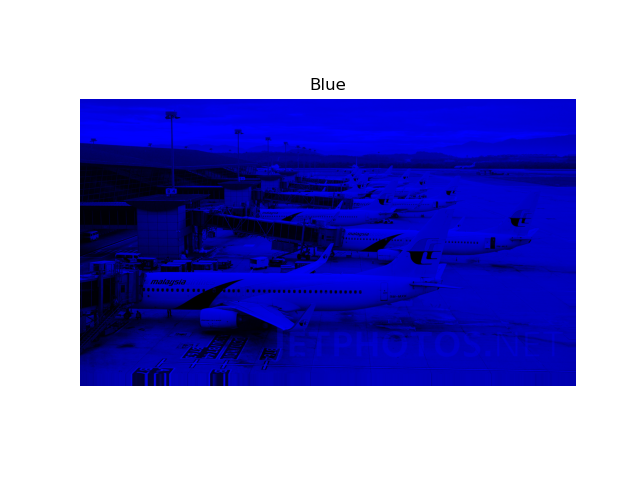
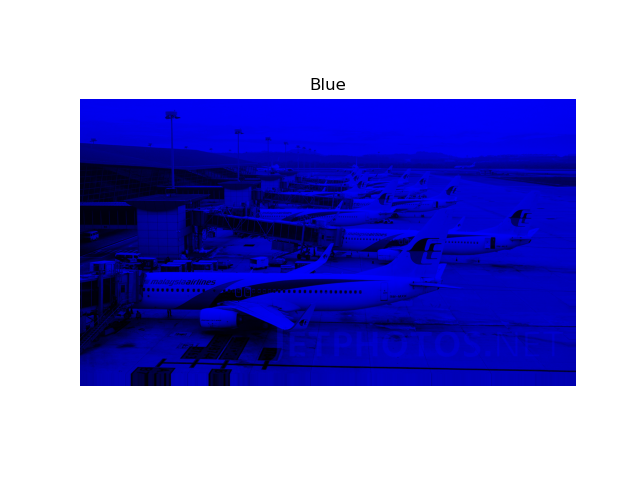
Errata do grupo da Claudia

diff --git a/PythonMult/projeto1.py b/PythonMult/projeto1.py
@@ -8,8 +8,8 @@ import numpy as np #decoder
 
 def splitRGB(img): #separar matrizes
     R = img[:, :, 0]
-    G = img[:, :, 0]
-    B = img[:, :, 0]
+    G = img[:, :, 1]
+    B = img[:, :, 2]
     return R, G, B
 
 def encoder(img):
